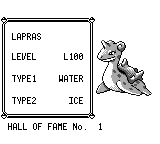
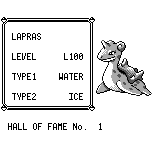
fix(ui): give Hall of Fame title room above and below text

Changed region(s): [[0.0, 0.6389, 0.5938, 0.8333], [0.375, 0.5, 0.5312, 0.5833], [0.0625, 0.5, 0.2188, 0.5833]]

diff --git a/crates/pokered-app/src/render/hof_ceremony.rs b/crates/pokered-app/src/render/hof_ceremony.rs
@@ -171,13 +171,13 @@ pub fn draw_hof_ceremony(
                 draw_mon_front(entry.species, FRONT_REST_X, FRONT_REST_Y, resources, fb);
                 draw_mon_info(entry, fb, is_zh);
                 if matches!(hof.phase(), HofPhase::MonText | HofPhase::MonFade) {
-                    // Keep the title below the taller information card so
-                    // its opaque box does not erase the second type.
-                    draw_text_box(fb, 2 * T, 15 * T, 14, 1, FG);
+                    // Two interior tiles fit the 10 px font with padding;
+                    // keep the title below the information card.
+                    draw_text_box(fb, 2 * T, 14 * T, 14, 2, FG);
                     draw_text(
                         lang_data::ui_label("HALL OF FAME", is_zh),
                         4 * T,
-                        15 * T + 4,
+                        15 * T + 2,
                         FG,
                         fb,
                     );
@@ -326,7 +326,7 @@ pub(super) fn draw_hof_mon_info(
     fb: &mut FrameBuffer,
     is_zh: bool,
 ) {
-    draw_text_box(fb, 0, 2 * T, 10, 11, FG);
+    draw_text_box(fb, 0, 2 * T, 10, 10, FG);
     let left = 12;
     let right = 84;
     draw_text(nickname, left, 30, FG, fb);
@@ -343,13 +343,13 @@ pub(super) fn draw_hof_mon_info(
         draw_row(
             lang_data::ui_label("TYPE1/", is_zh),
             lang_data::type_name(stats.type1, is_zh),
-            72,
+            70,
         );
         if stats.type1 != stats.type2 {
             draw_row(
                 lang_data::ui_label("TYPE2/", is_zh),
                 lang_data::type_name(stats.type2, is_zh),
-                94,
+                90,
             );
         }
     }
@@ -484,7 +484,7 @@ mod tests {
             }
             let mut title = new_fb();
             draw_hof_ceremony(&hof, &mut resources, &mut title, lang);
-            assert!((94..104).any(|y| (48..84).any(|x| info.get_pixel(x, y) == Some(FG))),
+            assert!((90..100).any(|y| (48..84).any(|x| info.get_pixel(x, y) == Some(FG))),
                 "second type must have visible ink");
             for y in 90..112 {
                 for x in 8..88 {
@@ -492,6 +492,28 @@ mod tests {
                         "{lang:?} title erased the second type at ({x},{y})");
                 }
             }
+        }
+    }
+
+    #[test]
+    fn ceremony_title_has_clear_space_above_and_below_both_languages() {
+        for lang in [Lang::En, Lang::Zh] {
+            let mut hof = ceremony();
+            while hof.phase() != HofPhase::MonText {
+                hof.update_frame();
+            }
+            let mut fb = new_fb();
+            draw_hof_ceremony(&hof, &mut test_resources(), &mut fb, lang);
+            // Require three clear rows on each side of the title's ink,
+            // across the full interior rather than just between glyphs.
+            for y in (120..123).chain(133..136) {
+                for x in 24..136 {
+                    assert_eq!(fb.get_pixel(x, y), Some(Rgba::WHITE),
+                        "{lang:?} title touches its border at ({x},{y})");
+                }
+            }
+            assert!((123..133).any(|y| (32..128).any(|x| fb.get_pixel(x, y) == Some(FG))),
+                "{lang:?} title must remain visible");
         }
     }
 

diff --git a/docs/audits/ui-overlay-font-padding/README.md b/docs/audits/ui-overlay-font-padding/README.md
@@ -45,10 +45,25 @@ cargo run --locked -p pokered-app --example capture_ui_overlay_padding -- /absol
 
 评审前版本为 `6192f80618d9f12a6699455456aa2e736f3e9190`。
 昵称从 y=24 调整到 y=30，在文本框内部上沿保留 6 像素空白，左右各留 4 像素。
-等级、第一属性和第二属性的标签与值分别放在同一行（y=50、72、94），
+首轮调整中，等级、第一属性和第二属性的标签与值分别放在同一行（y=50、72、94），
 标签移除原来独占一行时使用的尾部斜杠，值按字宽统一右对齐。
 英文最长属性 FIGHTING/ELECTRIC 也能留出标签和值之间的空白。
 
 新增 6 张 `*-review-before.png` 保留评审前 PR 画面，对应现有 6 张 `*-after.png`，
 覆盖中英文名人堂单/双属性和联盟电脑。master 对照截图保持原样，after 已更新。
 评审追加验证记录在 `validation.json` 的 `hof_review` 字段。
+
+## 名人堂标题留白修正
+
+评审前版本为 `12f276c12e850890f8be0bffc100b8525c39061d`。
+下方标题框原先仅有 8 像素内部高度，无法容纳 10 像素字体。
+本轮将信息卡内部高度从 88 缩短到 80 像素，等级与属性行使用 y=50、70、90，
+标题框从 y=120 上移到 y=112，内部高度从 8 增至 16 像素。
+标题文本置于 y=122，考虑中文字形的基线偏移后，实际字形上下各至少保留
+3 像素内部空白，边框完整位于屏幕内。
+信息卡仍保留昵称顶部留白，双属性内容与标题互不覆盖。
+
+新增 6 张 `*-title-review-before.png` 与更新后的 `*-after.png` 对照，
+覆盖中英文仪式单/双属性以及共用信息卡的联盟电脑。
+增加像素回归检查，要求中英文标题上下各 3 行内部像素全部为空白且标题仍可见。
+本轮验证见 `validation.json` 的 `hof_title_review` 字段。
